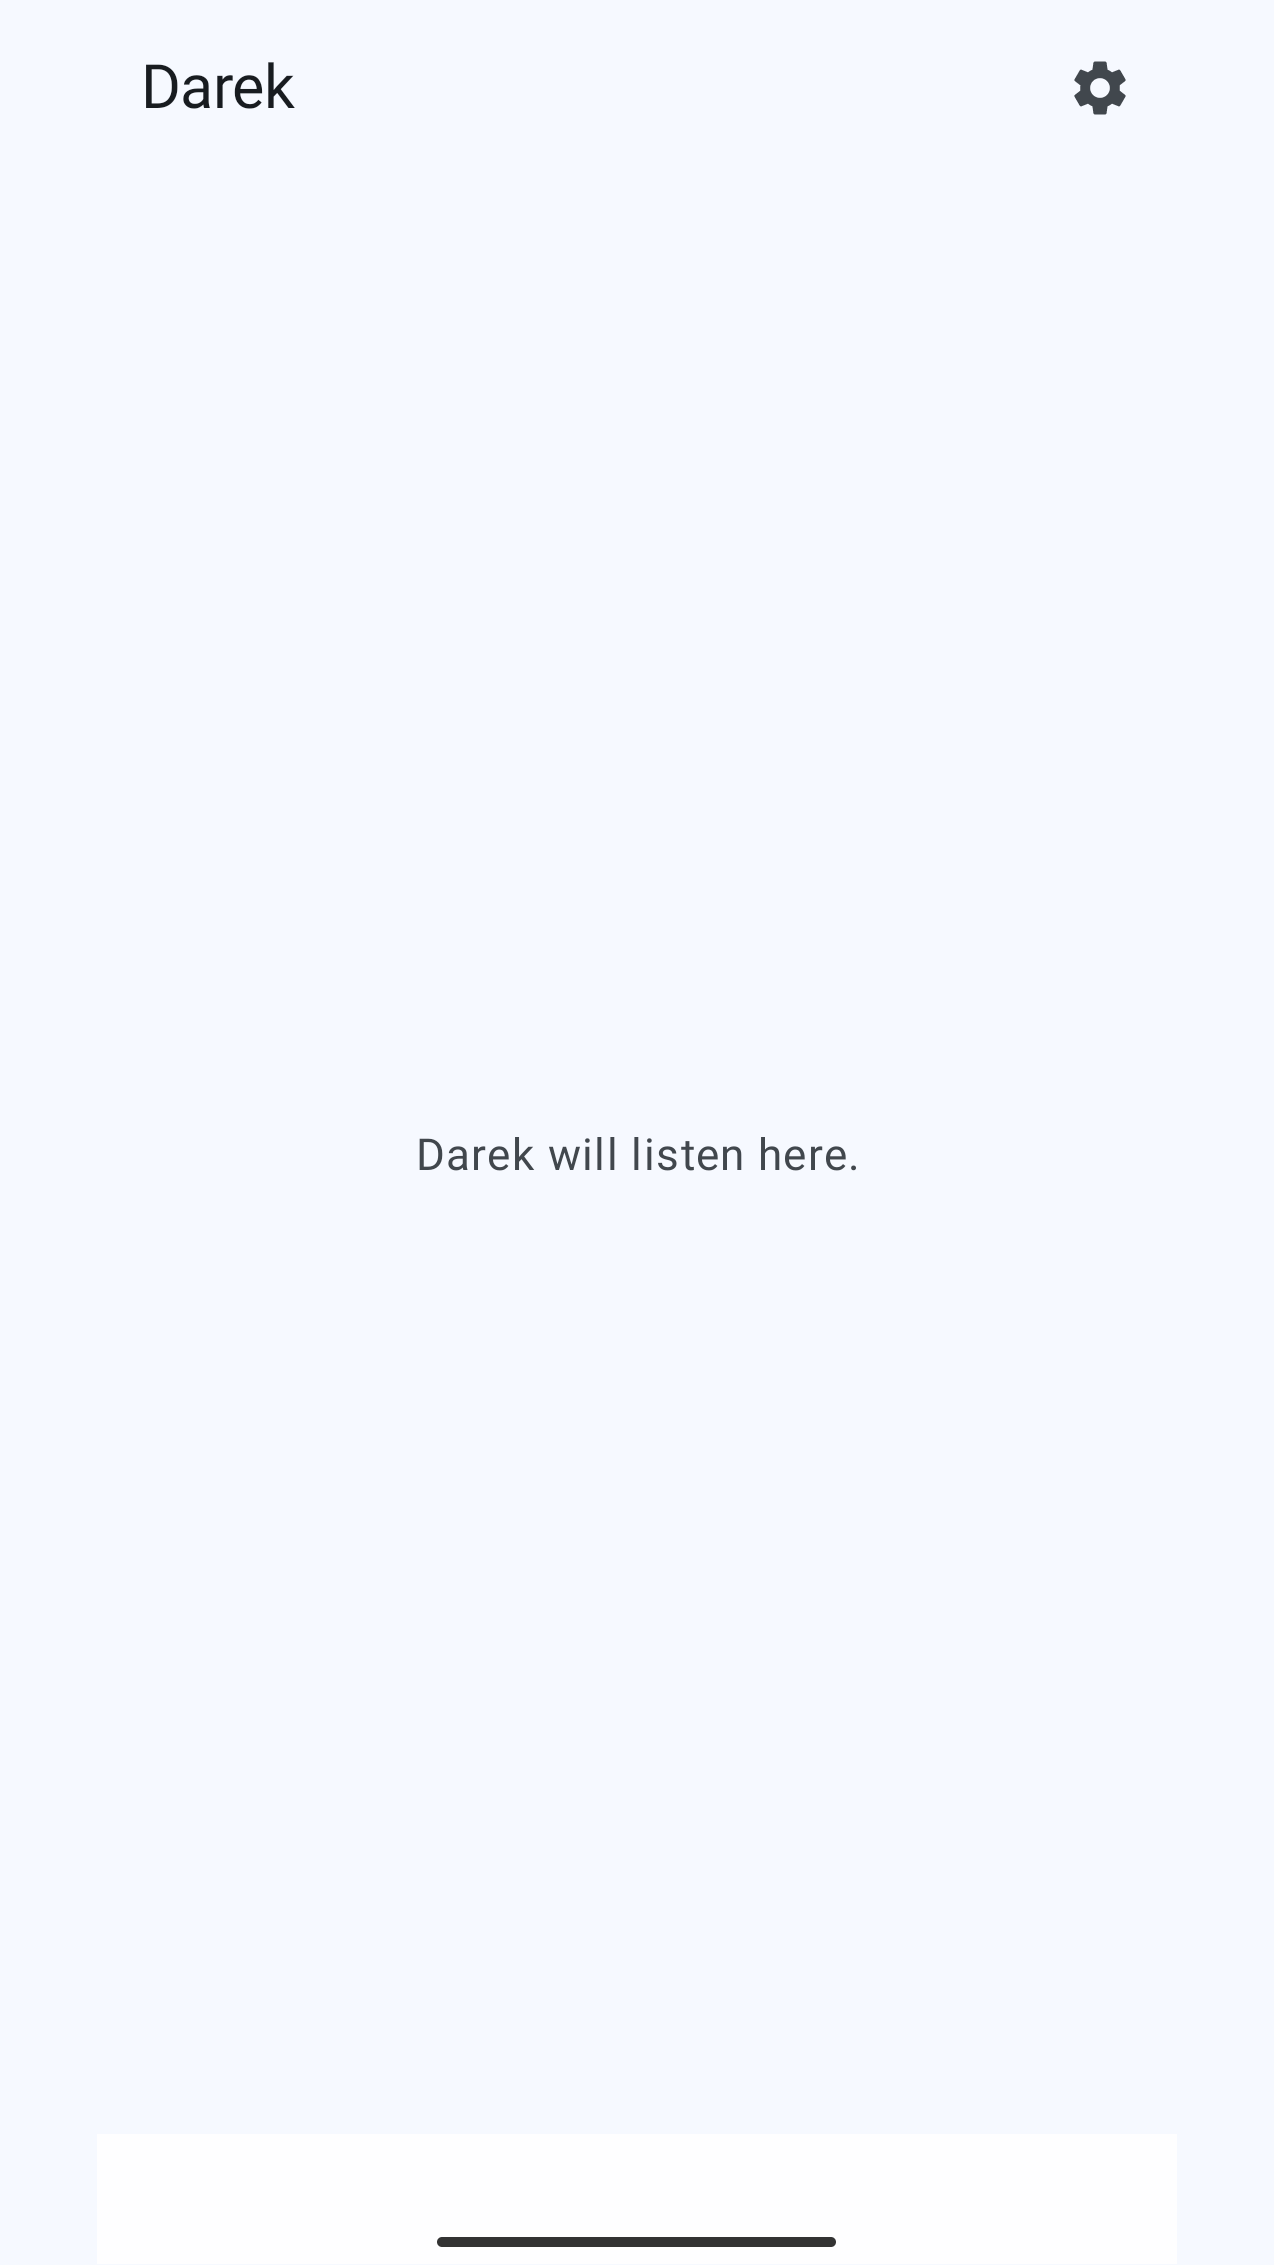
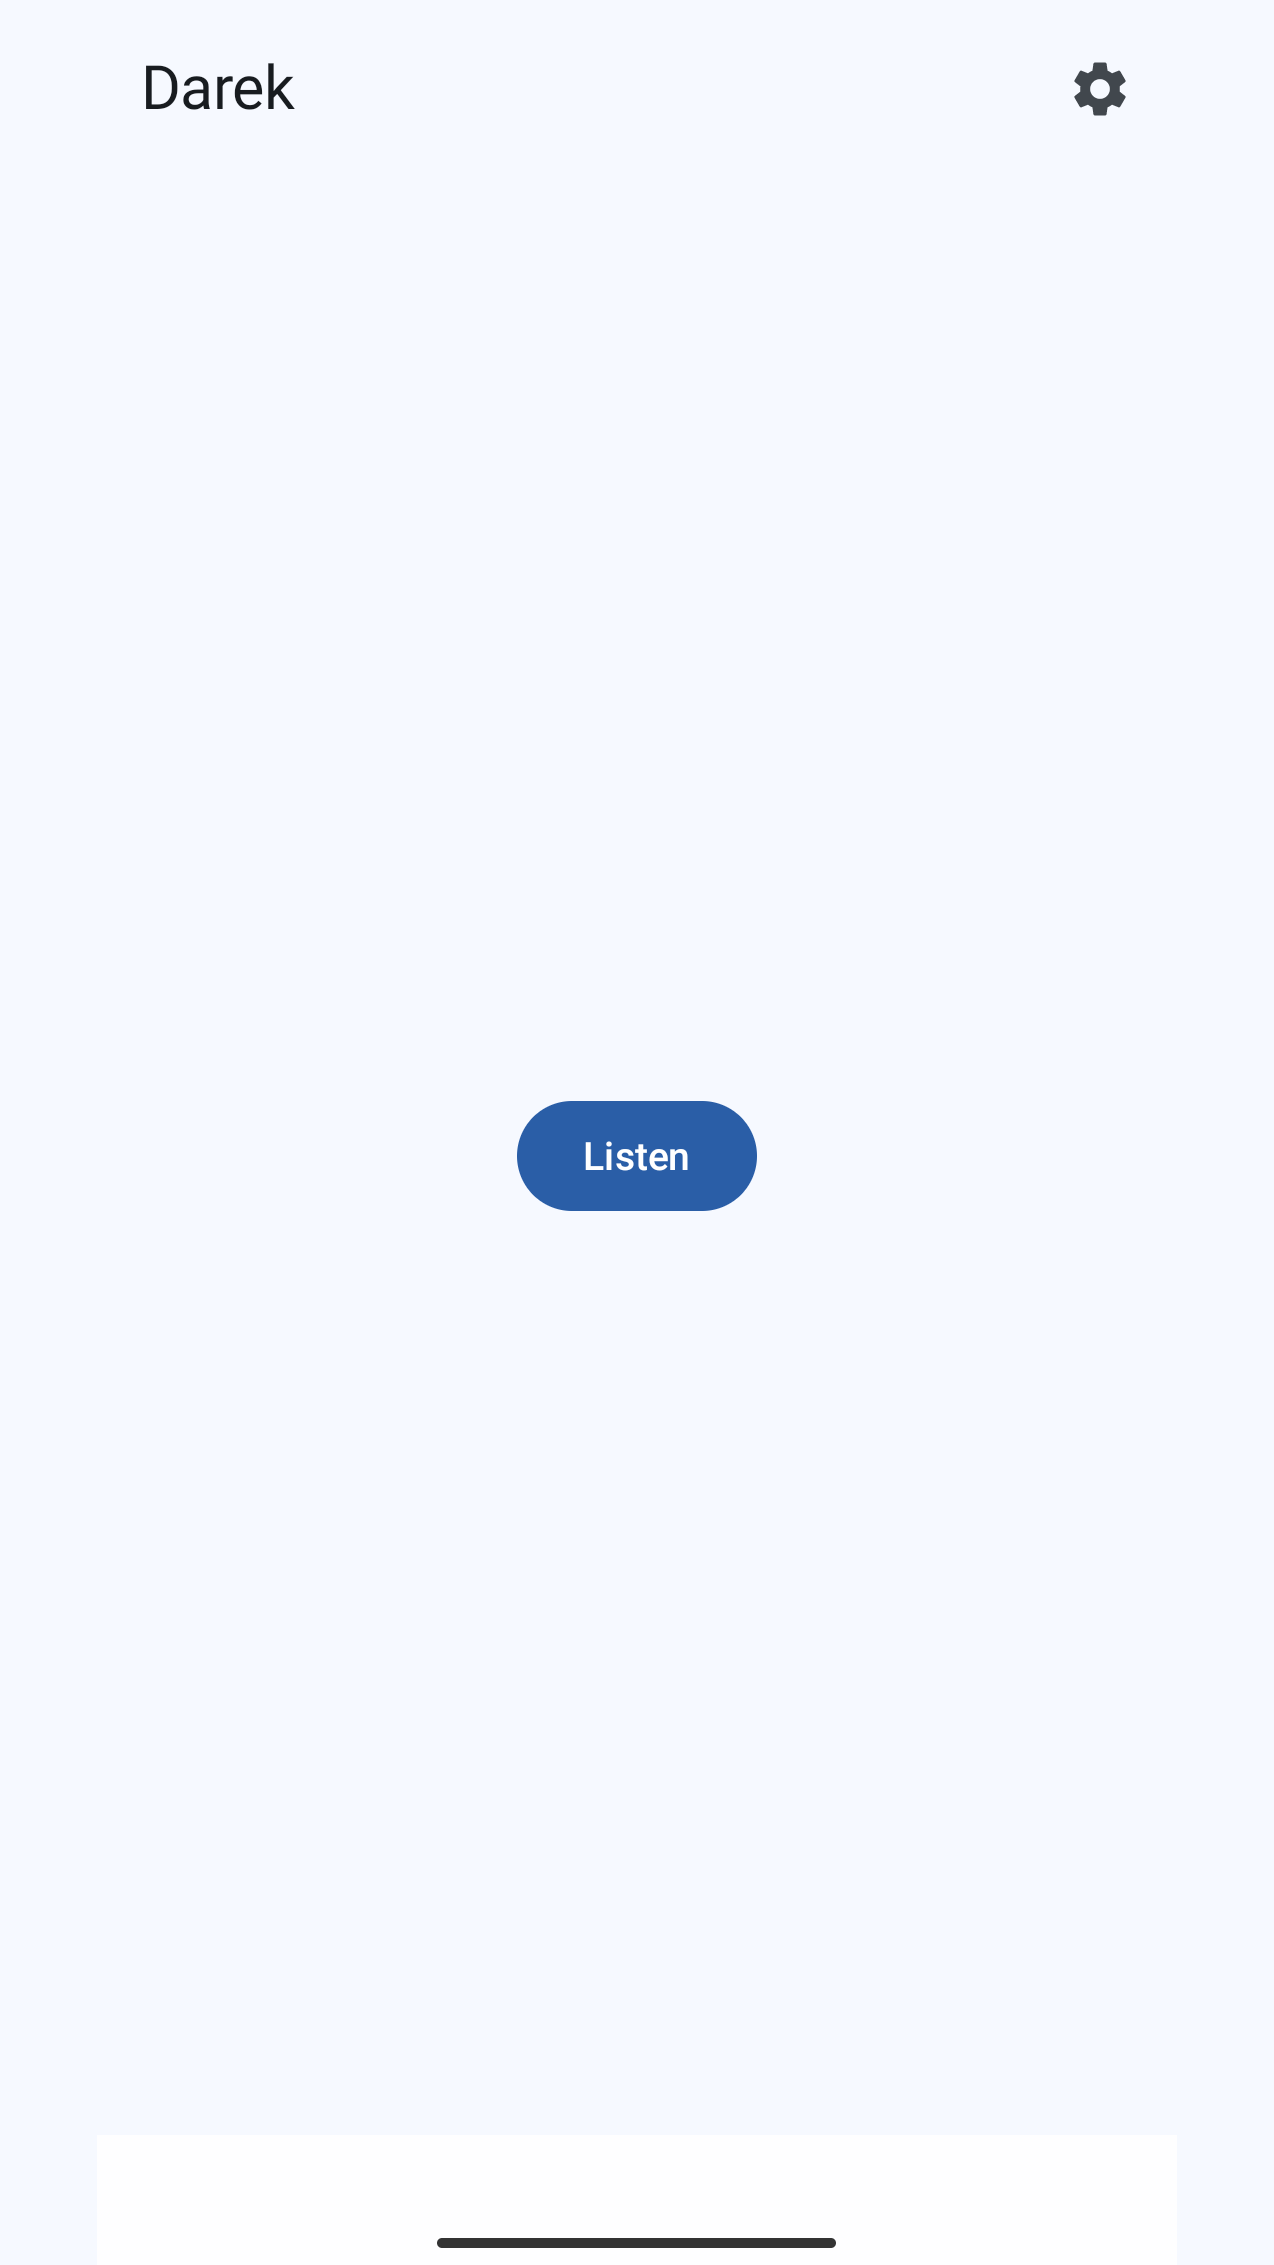
docs: describe 0.3.0's listening build in the listing, privacy policy and Play answers
The listing's test-build and voice paragraphs, the policy's microphone and voice text, RECORD_AUDIO's row and the Data safety re-read, and screenshots with Słuchaj, the microphone disclosure and Listening.

Changed region(s): [[0.3367, 0.4636, 0.6735, 0.5563]]

diff --git a/docs/play-app-content.md b/docs/play-app-content.md
@@ -22,16 +22,20 @@ Two rules keep this file honest:
 
 ## What the artifact carries
 
-Read at **versionCode 24, versionName 0.1.0** from a local debug bundle (`./gradlew bundleDebug`,
-commit `e78ae3e`) on 2026-10-31. The release bundle's reading, by `publish-play.yml`'s verify step,
-replaces this one at the first upload:
+Read at **versionCode 72** from a local release bundle (`./gradlew bundleRelease`, commit
+`10d15a1`, the code 0.3.0 ships) on 2026-11-01. `publish-play.yml`'s verify step reads the uploaded
+bundle again:
 
 ```text
-3 permissions, all accounted for; none of the 6 forbidden ones present; 0 <uses-feature> declared; 0 of the 6 activities lock their orientation, every one of them expected
+4 permissions, all accounted for; none of the 6 forbidden ones present; 0 <uses-feature> declared; 0 of the 4 activities lock their orientation, every one of them expected
 ```
+
+`RECORD_AUDIO` implies `android.hardware.microphone`, `required`, though nothing declares it: a phone
+without a microphone cannot use Darek, so Play filtering it out is correct.
 
 | Permission | Whose | What it is for | Console consequence |
 | --- | --- | --- | --- |
+| `RECORD_AUDIO` | Darek | *Słuchaj*: the bundled recogniser hears the Commands, only while Listening is on ([ADR-0009](adr/0009-commands-are-recognised-offline-against-a-grammar-with-decoys.md)) | a runtime permission, asked after the in-app disclosure; Data safety still *no data collected* (point 2). Not on Play's declaration list |
 | `ACCESS_NETWORK_STATE` | Play Billing's `datatransport` | read before its (blocked) log upload; opens nothing ([ADR-0008](adr/0008-darek-never-opens-a-network-connection.md) allows it as this merge only) | none, but a reviewer may ask why an app with no network reads it — this row is the answer |
 | `com.android.vending.BILLING` | Play Billing Library | the tip ([ADR-0007](adr/0007-the-tip-is-a-play-billing-consumable-that-unlocks-nothing.md)): IPC to the Play app's billing service | none: not on Play's declaration list. The listing shows *Contains in-app purchases* once products exist |
 | `…DYNAMIC_RECEIVER_NOT_EXPORTED_PERMISSION` | AndroidX | its own non-exported receivers, signature-level | none: not user-visible |
@@ -50,8 +54,8 @@ the same, as any permission missing from `EXPECTED` does (ADR-0008).
 describes them, because it covers the app as it will ship; the Console is answered for the artifact
 in front of it.
 
-- **Phase 1:** `RECORD_AUDIO` (the recogniser, [ADR-0009](adr/0009-commands-are-recognised-offline-against-a-grammar-with-decoys.md))
-  and `CALL_PHONE` (the Gate call, [ADR-0011](adr/0011-the-gate-call-is-placed-through-telecom-after-the-reply.md)).
+- **Phase 3:** `CALL_PHONE` (the Gate call, [ADR-0011](adr/0011-the-gate-call-is-placed-through-telecom-after-the-reply.md)).
+  Phase 1's checkpoint C dials from the debug build only; the release gets it with the Commands.
 - **Phase 2:** the Listening service's `FOREGROUND_SERVICE` and `FOREGROUND_SERVICE_MICROPHONE`,
   `POST_NOTIFICATIONS` for its notification, and `RECEIVE_BOOT_COMPLETED` for the after-reboot
   notification ([ADR-0010](adr/0010-listening-is-a-microphone-service-the-user-starts.md)).
@@ -159,19 +163,21 @@ The answer rests on one fact per route data could take:
 
 1. **The app opens no network connection.** `INTERNET` is absent from the artifact (ADR-0008), and
    `aab-permissions.py` fails the upload if it ever appears. This one fact is most of the answer. From
-   phase 1, when `CALL_PHONE` arrives, one thing does leave the phone at the app's request: the Gate
-   call of point 4.
+   phase 3, when `CALL_PHONE` reaches the release, one thing does leave the phone at the app's
+   request: the Gate call of point 4.
 2. **Audio is processed on the device, and that is not collection.** The bundled recogniser consumes
    the microphone frame by frame; only the text of a matched Command is kept, in memory, and audio is
-   never stored or sent (ADR-0008, ADR-0009). From phase 1, when `RECORD_AUDIO` arrives; still no
-   data collected.
+   never stored or sent (ADR-0008, ADR-0009). `RECORD_AUDIO` is in the artifact from 0.3.0; re-read
+   2026-11-01 against Play's definitions above: still no data collected, so the Console answer stands
+   unchanged.
 3. **The Numbers stay on the device.** The user types each one in; it is kept in DataStore and used
    only to place that Command's call. **Auto Backup is still "no data collected"**: the platform moves
    the user's backup to the user's own Google account, and the developer never sees it. That is
    Android transmitting the user's backup, not the app transmitting to the developer. ⚠ Every setting
    the backup carries lands on the user's *next* phone too — ADR-0005's amendment says what that is.
-4. **The call and the voice are other apps' work.** The Reply is spoken by the phone's own
-   text-to-speech engine, which Darek hands only the fixed Reply. The Gate call is placed by the
+4. **The call is another app's work; the voice is Darek's own.** The Reply is rendered inside the
+   app by its bundled synthesiser and played by the app itself; no other app is handed it
+   ([ADR-0014](adr/0014-darek-speaks-with-his-own-bundled-voice.md)). The Gate call is placed by the
    phone's Telecom service on the user's SIM, to the Number the user typed for that Command
    (ADR-0011). The app opens no network connection, but the call does leave the phone at its request,
    with no tap at that moment: the user's operator carries the Number dialled and the user's own caller
@@ -232,7 +238,8 @@ answers to give then:
   with the link for as long as the declaration is on file. `adb screenrecord` captures no audio, so
   say so if the reviewer needs to hear a Command.
 
-The same build owes the **prominent disclosure** in the app right before the `RECORD_AUDIO` request.
+The **prominent disclosure** right before the `RECORD_AUDIO` request shipped with *Słuchaj* in 0.3.0
+(`mic_disclosure_body`); the service's build re-reads it against the notification it adds.
 
 ## Privacy policy
 

diff --git a/docs/store-listing.md b/docs/store-listing.md
@@ -52,7 +52,7 @@ The line that appears under the name in search results, and the most-read text i
 Say "Darek, otwórz bramę" and he calls your gate opener. Offline, in Polish.
 ```
 
-### Full description — 2826/4000
+### Full description — 2869/4000
 
 **No health or safety claims**, here or on any page the listing links to — Play's enforcement reads a
 linked page as part of the listing. Say what the app cannot do instead.
@@ -68,13 +68,13 @@ renders no markup. The block below is what `play-metadata.py` uploads, so the ou
 5. `PERMISSIONS` — one line each, in the user's words.
 6. A last line pointing at the source: `github.com/maksforge/darek`.
 
-The second paragraph is for the test builds that have only Home and Settings. The release that ships
-phase 1, recognition and the call, rewrites or deletes it in both languages.
+The second paragraph says what the current test build can do. Each test build rewrites it, and the
+release that ships the call (phase 3) deletes it, in both languages.
 
 ```
 Darek is a Polish voice assistant for your gate. Say "Darek, otwórz bramę" and he answers out loud and calls your gate's GSM opener, so you do not have to reach for your phone. Recognition, speech and the call all happen on your phone, with no internet at all.
 
-This test build has only the home screen and settings. Listening and the call arrive in the next test builds.
+This test build answers one Command, "Hej Darek, powiedz coś", while the app is open on screen. Listening with the screen off and the call arrive in the next test builds.
 
 HOW IT WORKS
 
@@ -96,7 +96,7 @@ Darek calls your gate opener; he does not control the gate. Whether it opens is 
 
 He understands only his fixed Polish Commands, not free speech, and you cannot add phrases of your own. In a noisy place he can miss a Command; say it again.
 
-He answers through your phone's text-to-speech engine, which needs a Polish voice that works offline. Without one, Darek still makes the call, just without a spoken reply.
+He answers in his own Polish voice, which comes with the app and sounds the same on every phone; he needs no text-to-speech engine and no voice download.
 
 Listening keeps the microphone on and uses battery while it runs. Some phones, Xiaomi's among them, stop apps in the background; Darek opens the battery and autostart settings for you.
 
@@ -127,12 +127,12 @@ Darek
 Powiedz „Darek, otwórz bramę”, a on odpowie i zadzwoni do bramy. Bez internetu.
 ```
 
-### Full description — 2849/4000
+### Full description — 2921/4000
 
 ```
 Darek to głosowy asystent do twojej bramy. Powiedz „Darek, otwórz bramę”, a on odpowie na głos i zadzwoni do sterownika GSM bramy, więc nie musisz sięgać po telefon. Rozpoznawanie mowy, odpowiedź i połączenie odbywają się w telefonie, zupełnie bez internetu.
 
-Ta wersja testowa ma tylko ekran główny i ustawienia. Słuchanie i dzwonienie pojawią się w kolejnych wersjach testowych.
+Ta wersja testowa odpowiada na jedną komendę, „Hej Darek, powiedz coś”, gdy aplikacja jest otwarta na ekranie. Słuchanie przy wyłączonym ekranie i dzwonienie pojawią się w kolejnych wersjach testowych.
 
 JAK TO DZIAŁA
 
@@ -154,7 +154,7 @@ Darek dzwoni do sterownika bramy, ale nie steruje samą bramą. To, czy się otw
 
 Rozumie tylko swoje stałe polskie komendy, nie swobodną mowę, i nie da się dodać własnych zwrotów. W hałasie może nie usłyszeć komendy; wtedy ją powtórz.
 
-Odpowiada przez syntezator mowy w twoim telefonie, który potrzebuje do tego polskiego głosu działającego offline. Bez niego Darek i tak zadzwoni, tylko bez odpowiedzi na głos.
+Odpowiada własnym polskim głosem, który jest częścią aplikacji i na każdym telefonie brzmi tak samo; nie potrzebuje syntezatora mowy w telefonie ani pobierania głosu.
 
 Gdy Darek słucha, mikrofon jest włączony, co zużywa baterię. Niektóre telefony, w tym Xiaomi, zamykają aplikacje działające w tle; Darek sam otworzy ci ustawienia baterii i autostartu.
 

diff --git a/docs/privacy-policy.md b/docs/privacy-policy.md
@@ -5,7 +5,7 @@ title: Privacy Policy
 
 # Privacy Policy
 
-_Effective date: 31 October 2026_
+_Effective date: 1 November 2026_
 
 Darek is a Polish voice assistant for Android. While you have him listening, he waits for one of a
 few fixed spoken Commands, such as *"Darek, otwórz bramę"*, answers out loud, and then calls the
@@ -28,8 +28,8 @@ out.
 
 - **The microphone, only while you have Listening on.** You start Listening yourself, in the app, from
   its notification or from its Quick Settings tile, and you stop it the same way; it never starts by
-  itself, not even after the phone restarts. While it is on, a notification says that Darek is
-  listening. The sound is processed **on your phone, frame by frame**, by an offline speech
+  itself, not even after the phone restarts. While it is on, the app's screen, or later its
+  notification, says that Darek is listening. The sound is processed **on your phone, frame by frame**, by an offline speech
   recogniser that comes inside the app, and the only thing kept is the text of a Command it
   recognised, in memory, long enough to act on it. **Audio is never recorded, never stored and never
   sent anywhere.** Listening pauses while Darek speaks and while his call is in progress.
@@ -43,9 +43,9 @@ out.
 - **Google Play billing**, which lets the app ask the Google Play app for the price of a tip and open
   its payment sheet. It gives the app nothing about you.
 
-**Text-to-speech.** Darek's spoken replies are read out by your phone's own text-to-speech engine,
-which is a separate app with its own terms. Darek gives it only the fixed reply it is about to say,
-and chooses a Polish voice that works without the internet.
+**Darek's voice.** Darek speaks his replies in his own voice, made by a speech synthesiser that
+comes inside the app and runs on your phone. No other app is given the reply, and what he says is
+never recorded or sent.
 
 On some phones, Xiaomi's among them, the app may also send you to two of your phone's own Settings
 screens, so that the phone does not stop Listening in the background: **battery use** and

diff --git a/docs/DOD.md b/docs/DOD.md
@@ -70,7 +70,10 @@ close. Whenever `APP_SCHEMA_VERSION` changes, all five hold before the release g
 - [x] **Capture the screenshots** with `scripts/screenshots.py` from a release-shaped build, in every
       listing language, into `art/play-screenshots/`. Play wants at least two before the first review.
       Done 2026-10-31 as **current-build placeholders**: Home and Settings, light, in pl and en, from
-      a local release build on the test phone (see *Before the next upload*).
+      a local release build on the test phone (see *Before the next upload*). Re-shot 2026-11-01 for
+      0.3.0: Home with *Słuchaj*, the microphone disclosure, Listening and Settings, by hand
+      (`screencap` + `pad-screenshot.py --status-bar-px 75`), because `screenshots.py --locale`
+      needs API 33 and the test phone is API 30.
 - [ ] **Put the app on maksforge.com.** Its icon goes at `assets/icons/<repo>.webp` in
       maksforge/maksforge.github.io, which the app's own site loads, and the app goes on that home
       page. Replace `description` in `docs/_config.yml` too: it is the tagline under the app's name.
@@ -153,6 +156,9 @@ Console matches. A new permission, foreground service or data type is a Console 
       `play-app-content.md` with the Data safety re-read,
       `aab-permissions.py`'s EXPECTED, and the licences of Vosk, its model, JNA, ONNX Runtime and the
       voice (with ADR-0014's grey area). `CALL_PHONE` stays out of the release until phase 3.
+      The repo half is done 2026-11-01 (listing, policy, `play-app-content.md`, screenshots; the
+      allowlist and licences came with B). Tick when 0.3.0 is uploaded with its listing and the
+      Console's Data safety is confirmed unchanged.
 
 ## After the closed test
 
